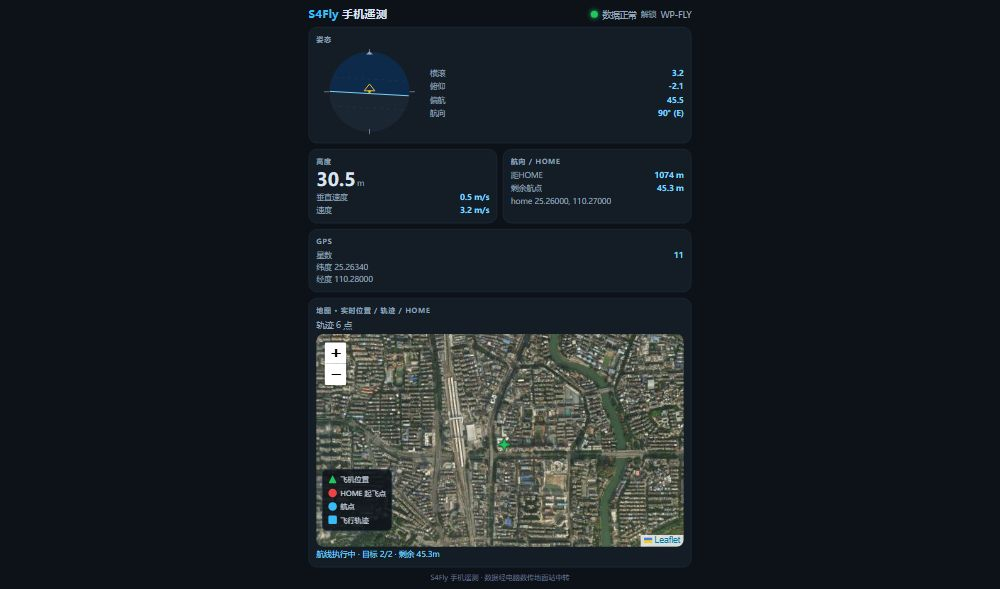
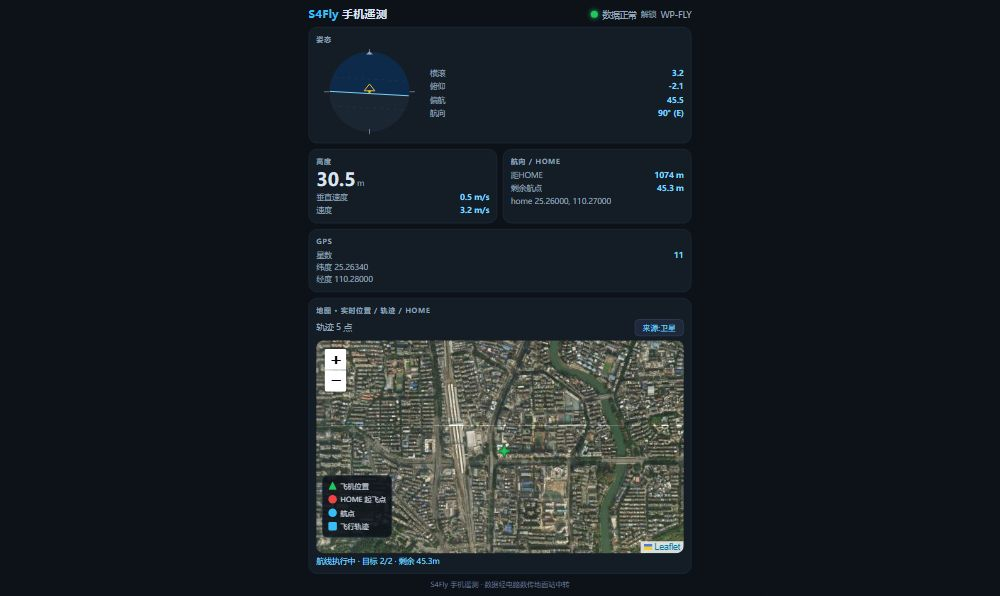
地面站增强：手机端地图源切换按钮(高德/卫星/OSM)+电脑端打开自动开启共享+服务器启动自动打开地面站

diff --git a/groundstation/手机共享页面.html b/groundstation/手机共享页面.html
@@ -40,6 +40,7 @@ h1{font-size:16px;margin:0;} h1 b{color:#38bdf8;}
 .wpstat{font-size:11px;margin-top:4px;}
 .wpstat.go{color:#7dd3fc;} .wpstat.wait{color:#fbbf24;} .wpstat.idle{color:#94a3b8;}
 .foot{text-align:center;font-size:10px;color:#64748b;margin-top:8px;}
+#tileBtn{font-size:11px;color:#7dd3fc;background:#1e293b;border:1px solid #334155;border-radius:6px;padding:3px 10px;}
 @media(max-width:380px){.grid{grid-template-columns:1fr;}}
 </style>
 </head>
@@ -114,7 +115,10 @@ h1{font-size:16px;margin:0;} h1 b{color:#38bdf8;}
 
   <div class="card wide">
     <h3>地图 · 实时位置 / 轨迹 / HOME</h3>
-    <div class="st" style="margin-bottom:6px;"><span id="trkCnt">轨迹 0 点</span></div>
+    <div class="st" style="margin-bottom:6px;justify-content:space-between;">
+      <span id="trkCnt">轨迹 0 点</span>
+      <button id="tileBtn" onclick="switchTile()">来源:高德</button>
+    </div>
     <div id="mapWrap">
       <div id="map"></div>
       <div class="legend">
@@ -148,19 +152,22 @@ var lastAge=0, connected=false;
 var map=null, droneMk=null, homeMk=null, trkLine=null;
 var track=[], mapReady=false;
 var TILES=[
-  {url:'https://webrd0{s}.is.autonavi.com/appmaptile?lang=zh_cn&size=1&scale=1&style=8&x={x}&y={y}&z={z}',sub:'1234'},
-  {url:'https://server.arcgisonline.com/ArcGIS/rest/services/World_Imagery/MapServer/tile/{z}/{y}/{x}',sub:''}
+  {name:'高德',url:'https://webrd0{s}.is.autonavi.com/appmaptile?lang=zh_cn&size=1&scale=1&style=8&x={x}&y={y}&z={z}',sub:'1234'},
+  {name:'卫星',url:'https://server.arcgisonline.com/ArcGIS/rest/services/World_Imagery/MapServer/tile/{z}/{y}/{x}',sub:''},
+  {name:'OSM',url:'https://tile.openstreetmap.org/{z}/{x}/{y}.png',sub:''}
 ];
 var srcIdx=0, tileErr=0, tileLayer=null;
-function switchTile(){
-  srcIdx=(srcIdx+1)%TILES.length;
+function loadTile(i){
+  srcIdx=((i%TILES.length)+TILES.length)%TILES.length;
   var t=TILES[srcIdx], opts={maxZoom:18};
   if(t.sub) opts.subdomains=t.sub;
   if(tileLayer) map.removeLayer(tileLayer);
   tileErr=0;
   tileLayer=L.tileLayer(t.url,opts).addTo(map);
-  tileLayer.on('tileerror',function(){ tileErr++; if(tileErr>=4) switchTile(); });
+  tileLayer.on('tileerror',function(){ tileErr++; if(tileErr>=4) loadTile(srcIdx+1); });
+  $('tileBtn').textContent='来源:'+t.name;
 }
+window.switchTile=function(){ loadTile(srcIdx+1); };
 function initMap(){
   if(!window.L) return;
   map=L.map('map').setView([25.26,110.28],15);

diff --git a/groundstation/S4Fly地面站.html b/groundstation/S4Fly地面站.html
@@ -536,6 +536,7 @@ window.toggleShare=function(){
   b.className=shareOn?'btn green':'btn off';
   b.textContent=shareOn?'共享中...':'共享到手机';
   if(shareOn){
+    localStorage.removeItem('shareOff');
     fetch('http://localhost:8787/ip').then(function(r){return r.text();}).then(function(ip){
       $('shareTxt').textContent='手机连同一WiFi，打开 http://'+ip+':8787';
     }).catch(function(){
@@ -543,10 +544,15 @@ window.toggleShare=function(){
     });
     shareTimer=setInterval(pushShare,1000);
   }else{
+    localStorage.setItem('shareOff','1');
     if(shareTimer){ clearInterval(shareTimer); shareTimer=null; }
     $('shareTxt').textContent='';
   }
 };
+/* 打开页面自动开启共享（用户上次手动关闭过则不自动开） */
+window.addEventListener('load',function(){
+  if(localStorage.getItem('shareOff')!=='1') toggleShare();
+});
 
 /* ================= 命令下发 ================= */
 function sendLine(cmd){

diff --git a/groundstation/share_server.py b/groundstation/share_server.py
@@ -101,6 +101,17 @@ class Handler(http.server.BaseHTTPRequestHandler):
         pass
 
 
+def open_dashboard():
+    """启动后自动打开电脑端地面站页面（该页面会自动开启共享）。"""
+    try:
+        import webbrowser
+        import pathlib
+        base = pathlib.Path(__file__).resolve().parent
+        webbrowser.open((base / "S4Fly地面站.html").as_uri())
+    except Exception:
+        pass
+
+
 def main():
     ip = lan_ip()
     print("=" * 48)
@@ -110,6 +121,7 @@ def main():
     print("  电脑地面站点「共享到手机」即可推送数据")
     print("  按 Ctrl+C 停止")
     print("=" * 48)
+    open_dashboard()
     with socketserver.ThreadingTCPServer(("0.0.0.0", PORT), Handler) as srv:
         srv.daemon_threads = True
         srv.serve_forever()
